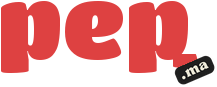
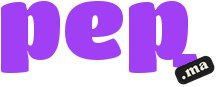
Tout le #DE4141 passe en #A13FF4 (#114)
Les lettres du logo changent de couleur, sans être redessinées. Le badge .ma reste noir. #C8242B était déjà #6515A0.

diff --git a/theme/partikulier/assets/css/style.css b/theme/partikulier/assets/css/style.css
@@ -5,7 +5,7 @@
 	barre de recherche centrale, nav uppercase, hero plein cadre,
 	cartes "produit" fond gris clair avec prix au-dessus du titre,
 	badge cognac en haut a droite, footer sombre multi-colonnes.
-	Palette : rouge #de4141, fond #f5f5f0, textes #161715/#3d403b.
+	Palette : rouge #A13FF4, fond #f5f5f0, textes #161715/#3d403b.
 	Zero framework. Mobile-first. Zero jQuery.
 	============================================================ */
 
@@ -51,11 +51,11 @@ html[dir="rtl"] [lang="ar"] {
 
 /* ---------- Variables (charte unique) ---------- */
 :root {
-		/* Charte unique : portail editorial rouge #de4141.
-			Les deux :root precedents (orange "Woo Shop" #f85525 et brun #de4141)
+		/* Charte unique : portail editorial rouge #A13FF4.
+			Les deux :root precedents (orange "Woo Shop" #f85525 et brun #A13FF4)
 			ont ete fusionnes ici : ils se contredisaient et le rendu dependait
 			de l'ordre de cascade au lieu d'une intention de design. */
-		--pk-primary: #de4141;
+		--pk-primary: #A13FF4;
 		--pk-primary-dark: #6515A0;
 		--pk-ink: #161715;
 		--pk-dark: #0f100e;
@@ -1207,7 +1207,7 @@ html[dir="rtl"] .pk-card-price {
 
 /* ============================================================
 	Alignement sur le preview React (mesures pixel des captures).
-	Accent #de4141, encre #161715, 2e ligne du H1 en italique
+	Accent #A13FF4, encre #161715, 2e ligne du H1 en italique
 	serif sable #e3c2a3, ligne de reassurance sous le moteur.
 	============================================================ */
 
@@ -4308,12 +4308,12 @@ html[dir="rtl"] .pk-single-price-note { direction: rtl; unicode-bidi: isolate; }
 .pk-chips { display: flex; flex-wrap: wrap; gap: .45rem; flex: 1; min-width: 0; }
 .pk-chip { position: relative; display: inline-flex; align-items: center; min-height: 44px; padding: .45rem .85rem; border: 1px solid #d9d6ce; border-radius: 10px; background: #fff; color: var(--pk-ink); font-size: .9rem; line-height: 1.35; cursor: pointer; }
 .pk-chip-input { position: absolute; opacity: 0; width: 1px; height: 1px; }
-.pk-chip:has(.pk-chip-input:checked) { background: #fff; border: 2px solid #de4141; color: var(--pk-primary-dark); font-weight: 600; }
+.pk-chip:has(.pk-chip-input:checked) { background: #fff; border: 2px solid #A13FF4; color: var(--pk-primary-dark); font-weight: 600; }
 .pk-chip:has(.pk-chip-input:focus-visible) { outline: 2px solid var(--pk-primary); outline-offset: 2px; }
 .pk-chip[hidden] { display: none; }
 .pk-amenity-hint { margin: .35rem 0 0; color: #6b675f; font-size: .82rem; }
 .pk-amenity-row { display: flex; flex-wrap: wrap; gap: .45rem; list-style: none; margin: 1rem 0 0; padding: 0; }
-.pk-amenity-row li { padding: .4rem .75rem; border: 2px solid #de4141; border-radius: 10px; background: #fff; color: var(--pk-primary-dark); font-size: .88rem; font-weight: 600; }
+.pk-amenity-row li { padding: .4rem .75rem; border: 2px solid #A13FF4; border-radius: 10px; background: #fff; color: var(--pk-primary-dark); font-size: .88rem; font-weight: 600; }
 @media (max-width: 560px) {
 	.pk-amenity { flex-direction: column; }
 }
@@ -4321,12 +4321,12 @@ html[dir="rtl"] .pk-single-price-note { direction: rtl; unicode-bidi: isolate; }
 #pk-furnished .pk-choice-grid:has(#pk-furnished-vide[hidden]) { grid-template-columns: 1fr; }
 
 
-/* Charte rouge #de4141. L'ancienne charte cognac reste sur le tag pre-release-2.10.16-6.20.85. */
+/* Charte rouge #A13FF4. L'ancienne charte cognac reste sur le tag pre-release-2.10.16-6.20.85. */
 body { background: #fff; }
 .pk-topbar { background: #6515A0; color: #fff; }
 .pk-topbar-promo, .pk-topbar-contact, .pk-topbar-contact a { color: #fff; background: transparent; }
 .pk-topbar-contact a:hover { color: #fff; }
-.pk-logo-text, .pk-logo-text:hover { color: #de4141; }
+.pk-logo-text, .pk-logo-text:hover { color: #A13FF4; }
 .pk-logo-tld {
 	display: inline-block;
 	margin-inline-start: .28rem;
@@ -4351,7 +4351,7 @@ body { background: #fff; }
 .pk-editorial-hero h1, .pk-editorial-hero h1 .pk-hero-accent { color: #161715; }
 .pk-editorial-hero h1 .pk-hero-accent, .pk-editorial-hero .pk-editorial-kicker { color: #6515A0; }
 .pk-editorial-hero__intro, .pk-editorial-hero .pk-editorial-search__hint, .pk-editorial-hero .pk-hero-trust, .pk-editorial-hero .pk-hero-trust li { color: #3d403b; }
-.pk-editorial-hero .pk-btn-light { background: #fff; color: #6515A0; border-color: #de4141; }
+.pk-editorial-hero .pk-btn-light { background: #fff; color: #6515A0; border-color: #A13FF4; }
 .pk-editorial-hero .pk-btn-light:hover { background: #6515A0; color: #fff; }
 .pk-btn-dark, .pk-btn-primary, .pk-btn-search, .pk-filter-apply { background: #6515A0; color: #fff; border-color: #6515A0; }
 .pk-btn-dark:hover, .pk-btn-primary:hover { background: #6515A0; border-color: #6515A0; color: #fff; }
@@ -4359,12 +4359,12 @@ body { background: #fff; }
 .pk-footer-title, .pk-site-footer h3 { color: #161715; }
 .pk-footer-about, .pk-site-footer a, .pk-site-footer li, .pk-site-footer p { color: #3d403b; }
 .pk-site-footer a:hover { color: #6515A0; }
-.pk-editorial-region-band { background: #de4141; color: #fff; }
+.pk-editorial-region-band { background: #A13FF4; color: #fff; }
 .pk-editorial-region-band h2, .pk-editorial-region-band a, .pk-editorial-region-band .pk-editorial-kicker { color: #fff !important; }
-.pk-editorial-section--rental, .pk-editorial-rental { background: #de4141; color: #fff; }
+.pk-editorial-section--rental, .pk-editorial-rental { background: #A13FF4; color: #fff; }
 .pk-editorial-section--rental .pk-editorial-kicker, .pk-editorial-section--rental .pk-editorial-rental h2, .pk-editorial-section--rental .pk-editorial-rental p { color: #fff; }
-.pk-editorial-rental .pk-btn, .pk-editorial-rental .pk-btn:hover { background: #fff; color: #de4141; border-color: #fff; }
-.pk-editorial-type { background: #de4141; color: #fff; border: 1px solid #de4141; }
+.pk-editorial-rental .pk-btn, .pk-editorial-rental .pk-btn:hover { background: #fff; color: #A13FF4; border-color: #fff; }
+.pk-editorial-type { background: #A13FF4; color: #fff; border: 1px solid #A13FF4; }
 .pk-editorial-type:hover { background: #6515A0; color: #fff; border-color: #6515A0; }
 .pk-editorial-type .pk-editorial-type__icon, .pk-editorial-type strong, .pk-editorial-type small, .pk-editorial-type:hover .pk-editorial-type__icon, .pk-editorial-type:hover strong, .pk-editorial-type:hover small { color: #fff; }
 .pk-card-badge.pk-badge-louer, .pk-card-badge.pk-badge-rent, .pk-card-badge.pk-badge-a-louer { background: #fff; color: #6515A0; }
@@ -4376,7 +4376,7 @@ a:hover { color: #6515A0; }
 .pk-editorial-feature { display: block; position: relative; min-height: 0 !important; height: auto; overflow: visible; background: transparent; color: #fff; }
 .pk-editorial-feature > img { position: relative !important; inset: auto !important; display: block; width: 100%; height: 440px; object-fit: cover; }
 .pk-editorial-feature__veil { display: none !important; background: none !important; }
-.pk-editorial-feature__content { position: relative !important; inset: auto !important; left: auto; right: auto; bottom: auto; z-index: 1; max-width: none; width: 100%; margin: -28px 0 0; padding: 18px 24px 20px; background: #de4141; color: #fff; }
+.pk-editorial-feature__content { position: relative !important; inset: auto !important; left: auto; right: auto; bottom: auto; z-index: 1; max-width: none; width: 100%; margin: -28px 0 0; padding: 18px 24px 20px; background: #A13FF4; color: #fff; }
 .pk-editorial-feature__kicker, .pk-editorial-feature__content, .pk-editorial-feature__content strong, .pk-editorial-feature__content small, .pk-editorial-feature:hover, .pk-editorial-feature:hover .pk-editorial-feature__kicker, .pk-editorial-feature:hover .pk-editorial-feature__content, .pk-editorial-feature:hover .pk-editorial-feature__content strong, .pk-editorial-feature:hover .pk-editorial-feature__content small { color: #fff !important; }
 .pk-editorial-feature__price { background: transparent; color: #fff; padding: 0; margin-top: .55rem; font-size: 1.15rem; }
 @media (max-width: 640px) {
@@ -4384,7 +4384,7 @@ a:hover { color: #6515A0; }
 	.pk-editorial-feature__content { margin-top: -18px; }
 }
 
-/* Recherche : onglets vente / location au-dessus, panneau filtres. Charte #de4141. */
+/* Recherche : onglets vente / location au-dessus, panneau filtres. Charte #A13FF4. */
 form.pk-search.pk-find {
 	display: block !important;
 	grid-template-columns: none !important;
@@ -4433,8 +4433,8 @@ form.pk-search.pk-find {
 }
 .pk-find-tab-input:checked + .pk-find-tab,
 .pk-find-tab-input:focus-visible + .pk-find-tab {
-	background: #de4141;
-	border-color: #de4141;
+	background: #A13FF4;
+	border-color: #A13FF4;
 	color: #fff;
 }
 .pk-find-tab-input:focus-visible + .pk-find-tab { outline: 2px solid #161715; outline-offset: 2px; }
@@ -4534,12 +4534,12 @@ html[dir="rtl"] .pk-find-field select { background-position: left .1rem center; 
 	border-inline-end: 1px solid #e6e5df;
 }
 .pk-find-open:checked ~ .pk-find-card .pk-find-filter,
-.pk-find-open:focus-visible ~ .pk-find-card .pk-find-filter { color: #de4141; }
+.pk-find-open:focus-visible ~ .pk-find-card .pk-find-filter { color: #A13FF4; }
 .pk-find-need {
 	margin: 0;
 	padding: .85rem 1rem;
 	background: #fff;
-	border: 1px solid #de4141;
+	border: 1px solid #A13FF4;
 	border-top: 0;
 	color: #161715;
 	font-weight: 700;
@@ -4547,7 +4547,7 @@ html[dir="rtl"] .pk-find-field select { background-position: left .1rem center; 
 }
 .pk-find-need[hidden] { display: none !important; }
 .pk-find.is-need-tx .pk-find-tabs,
-.pk-find.is-need-type .pk-find-typefield { outline: 2px solid #de4141; outline-offset: 2px; }
+.pk-find.is-need-type .pk-find-typefield { outline: 2px solid #A13FF4; outline-offset: 2px; }
 .pk-find-pills[hidden],
 .pk-find-chip[hidden],
 .pk-find-rooms[hidden],
@@ -4605,7 +4605,7 @@ html[dir="rtl"] .pk-find-field select { background-position: left .1rem center; 
 }
 .pk-find-range-name { color: #161715; font-size: .95rem; font-weight: 800; }
 .pk-find-readout {
-	color: #de4141;
+	color: #A13FF4;
 	font-weight: 800;
 	font-size: .92rem;
 	font-variant-numeric: tabular-nums;
@@ -4620,7 +4620,7 @@ html[dir="rtl"] .pk-find-field select { background-position: left .1rem center; 
 	height: 4px;
 }
 .pk-find-track { left: 0; right: 0; background: #e6e5df; }
-.pk-find-fill { background: #de4141; }
+.pk-find-fill { background: #A13FF4; }
 .pk-find-slider input[type="range"] {
 	position: absolute;
 	left: 0;
@@ -4644,7 +4644,7 @@ html[dir="rtl"] .pk-find-field select { background-position: left .1rem center; 
 	margin-top: -7px;
 	border-radius: 50%;
 	background: #fff;
-	border: 2px solid #de4141;
+	border: 2px solid #A13FF4;
 	cursor: pointer;
 	box-shadow: 0 1px 3px rgba(22, 23, 21, .18);
 }
@@ -4655,7 +4655,7 @@ html[dir="rtl"] .pk-find-field select { background-position: left .1rem center; 
 	height: 18px;
 	border-radius: 50%;
 	background: #fff;
-	border: 2px solid #de4141;
+	border: 2px solid #A13FF4;
 	cursor: pointer;
 }
 
@@ -4704,8 +4704,8 @@ html[dir="rtl"] .pk-find-field select { background-position: left .1rem center; 
 	clip: rect(0 0 0 0);
 }
 .pk-find-pill:has(input:checked), .pk-find-chip:has(input:checked) {
-	background: #de4141;
-	border-color: #de4141;
+	background: #A13FF4;
+	border-color: #A13FF4;
 	color: #fff;
 }
 .pk-find-pill:has(input:focus-visible), .pk-find-chip:has(input:focus-visible) {
@@ -4730,7 +4730,7 @@ html[dir="rtl"] .pk-find-field select { background-position: left .1rem center; 
 	text-decoration: underline;
 	text-underline-offset: .16em;
 }
-.pk-find-clear:hover { color: #de4141; }
+.pk-find-clear:hover { color: #A13FF4; }
 .pk-find-results { min-height: 46px; padding: .75rem 1.3rem; font-size: 1rem; }
 
 @media (max-width: 720px) {
@@ -4912,7 +4912,7 @@ html[dir="rtl"] body.home .pk-editorial-hero__inner {
 	background: #faf7f5;
 	color: #161715;
 	font-weight: 800;
-	border-inline-start-color: #de4141;
+	border-inline-start-color: #A13FF4;
 }
 @media (max-width: 1100px) {
 	.pk-editorial-hero:has(.pk-find.is-type-open),
@@ -4989,10 +4989,10 @@ body:has(.pk-find-open:checked) {
 	min-height: 44px;
 	min-width: 7.5rem;
 	padding: 0 1rem;
-	border: 1px solid #de4141;
+	border: 1px solid #A13FF4;
 	border-radius: 0;
 	background: #fff;
-	color: #de4141;
+	color: #A13FF4;
 	font: inherit;
 	font-weight: 800;
 	cursor: pointer;
@@ -5116,9 +5116,9 @@ body:has(.pk-find.is-type-open) .pk-scroll-actions { visibility: hidden; }
 
 .pk-journal { font-family: Georgia, "Iowan Old Style", Palatino, serif; }
 .pk-journal-band { border-bottom: 1px solid #111; }
-.pk-journal-word, .pk-journal-word a { margin: 0 auto; width: min(1120px, calc(100% - 32px)); display: block; padding: 12px 0; font-family: system-ui, sans-serif; font-size: 12px; letter-spacing: .16em; text-transform: uppercase; color: #de4141; font-weight: 700; }
+.pk-journal-word, .pk-journal-word a { margin: 0 auto; width: min(1120px, calc(100% - 32px)); display: block; padding: 12px 0; font-family: system-ui, sans-serif; font-size: 12px; letter-spacing: .16em; text-transform: uppercase; color: #A13FF4; font-weight: 700; }
 .pk-journal-note { width: min(1120px, calc(100% - 32px)); margin: -8px auto 0; padding-bottom: 12px; font-family: system-ui, sans-serif; font-size: 13px; color: #5c5c5c; }
-.pk-journal .kicker { margin: 0 0 8px; color: #de4141; font-family: system-ui, sans-serif; font-size: 12px; font-weight: 700; letter-spacing: .12em; text-transform: uppercase; }
+.pk-journal .kicker { margin: 0 0 8px; color: #A13FF4; font-family: system-ui, sans-serif; font-size: 12px; font-weight: 700; letter-spacing: .12em; text-transform: uppercase; }
 .pk-journal-home { display: grid; grid-template-columns: 1.7fr .9fr; gap: 36px; padding: 28px 0 48px; }
 .pk-journal-lead h1, .pk-journal__article h1 { margin: 0 0 12px; font-size: clamp(2rem, 4vw, 3.15rem); line-height: 1.02; letter-spacing: -.03em; }
 .pk-journal .deck, .pk-journal-rail p { font-size: 1.05rem; line-height: 1.4; }
@@ -5138,9 +5138,9 @@ body:has(.pk-find.is-type-open) .pk-scroll-actions { visibility: hidden; }
 .pk-journal-mast .pk-journal-word { width: auto; margin: 0; padding: 0; }
 .pk-journal-date { font-family: system-ui, sans-serif; font-size: 13px; color: #5c5c5c; }
 .pk-journal-nav { display: flex; gap: 22px; flex-wrap: wrap; padding: 12px 0; font-family: system-ui, sans-serif; font-size: 14px; }
-.pk-journal-nav a[aria-current="page"] { color: #de4141; }
+.pk-journal-nav a[aria-current="page"] { color: #A13FF4; }
 .pk-journal-ticker { border-bottom: 1px solid #e6e6e6; font-family: system-ui, sans-serif; font-size: 13px; padding: 8px 0; color: #5c5c5c; }
-.pk-journal-ticker strong { color: #de4141; font-weight: 700; margin-right: 8px; }
+.pk-journal-ticker strong { color: #A13FF4; font-weight: 700; margin-right: 8px; }
 .pk-journal-lead figure { margin: 0 0 16px; }
 .pk-journal-lead .deck { margin: 0 0 12px; font-size: 1.2rem; line-height: 1.4; }
 .pk-journal-row { display: grid; grid-template-columns: 1fr 1fr; gap: 28px; padding: 8px 0 48px; border-top: 1px solid #111; }

diff --git a/theme/partikulier/style.css b/theme/partikulier/style.css
@@ -3,7 +3,7 @@ Theme Name: Partikulier CDC v1.8 — final30
 Theme URI: https://partikulier.com/
 Author: Partikulier Team
 Author URI: https://partikulier.com/
-Description: Theme de portail immobilier pour Partikulier.com. Annonces de biens immobiliers gratuites deposees par les particuliers. Zero jQuery sur les pages editoriales (exception assumee sur les parcours proprietaires : galerie, filtres, selection, upload), cache de page integre, conversion AVIF automatique des images, schema.org JSON-LD complet (RealEstateListing, Place, Offer, GeoCoordinates), sitemap XML virtuel, permaliens geographiques (ville, quartier, region, departement) et optimisation PageSpeed cible 100/100. Concu pour ESTATIK, avec compatibilite optionnelle Polylang gratuit pour les variantes SEO FR/AR/EN. Formulaire structure avec chambres, salons, salles de bains, terrasse, vue et ensoleillement, metadonnees Estatik compatibles et design rouge #de4141. Correctif lieux r3 (depot d'annonce, 26/09/2026).
+Description: Theme de portail immobilier pour Partikulier.com. Annonces de biens immobiliers gratuites deposees par les particuliers. Zero jQuery sur les pages editoriales (exception assumee sur les parcours proprietaires : galerie, filtres, selection, upload), cache de page integre, conversion AVIF automatique des images, schema.org JSON-LD complet (RealEstateListing, Place, Offer, GeoCoordinates), sitemap XML virtuel, permaliens geographiques (ville, quartier, region, departement) et optimisation PageSpeed cible 100/100. Concu pour ESTATIK, avec compatibilite optionnelle Polylang gratuit pour les variantes SEO FR/AR/EN. Formulaire structure avec chambres, salons, salles de bains, terrasse, vue et ensoleillement, metadonnees Estatik compatibles et design rouge #A13FF4. Correctif lieux r3 (depot d'annonce, 26/09/2026).
 Version: 6.20.11
 Requires at least: 6.2
 Requires PHP: 8.1

diff --git a/theme/partikulier/inc/class-leads-admin.php b/theme/partikulier/inc/class-leads-admin.php
@@ -400,7 +400,7 @@ class Partikulier_Leads_Admin {
 
 	public static function admin_styles() {
 		if ( empty( $_GET['page'] ) || self::MENU_SLUG !== $_GET['page'] ) { return; }
-					echo '<style>.pk-leads-admin{max-width:1480px}.pk-leads-intro{max-width:850px;color:#50575e}.pk-leads-kpis{display:grid;grid-template-columns:repeat(4,minmax(140px,1fr));gap:16px;margin:22px 0}.pk-leads-kpis div{background:#fff;border:1px solid #dcdcde;border-left:4px solid #de4141;padding:18px}.pk-leads-kpis strong,.pk-leads-kpis span{display:block}.pk-leads-kpis strong{font-size:28px;line-height:1.1}.pk-leads-kpis span{margin-top:6px;color:#50575e}.pk-leads-filters{display:flex;align-items:end;gap:12px;flex-wrap:wrap;background:#fff;padding:16px;border:1px solid #dcdcde;margin:0 0 16px}.pk-leads-filters label{display:grid;gap:4px}.pk-leads-filters span{font-size:12px;font-weight:600}.pk-leads-search{min-width:240px}.pk-leads-table-wrap{overflow:auto}.pk-leads-table{min-width:980px}.pk-leads-table td{vertical-align:top;padding:14px}.pk-leads-table small{display:block;margin-top:5px;color:#646970}.pk-leads-table select{max-width:100%}.pk-leads-table textarea{display:block;width:100%;margin:7px 0;resize:vertical}.pk-leads-criteria{margin:7px 0 0;color:#50575e}.pk-leads-consent{display:inline-block;padding:4px 8px;border-radius:99px;font-weight:600;font-size:12px}.pk-leads-consent.is-granted{background:#e7f5e8;color:#176b2c}.pk-leads-consent.is-missing{background:#fff2d8;color:#8a5000}.pk-leads-consent.is-opted-out{background:#fce8e6;color:#a12622}.pk-leads-admin .button.button-primary{background:#de4141;border-color:#de4141;color:#fff;box-shadow:none}.pk-leads-admin .button.button-primary:hover,.pk-leads-admin .button.button-primary:focus{background:#6515A0;border-color:#6515A0;color:#fff}.pk-leads-policy{margin:20px 0}@media(max-width:782px){.pk-leads-kpis{grid-template-columns:repeat(2,minmax(120px,1fr))}.pk-leads-filters{align-items:stretch}.pk-leads-filters label,.pk-leads-search{width:100%}}</style>';
+					echo '<style>.pk-leads-admin{max-width:1480px}.pk-leads-intro{max-width:850px;color:#50575e}.pk-leads-kpis{display:grid;grid-template-columns:repeat(4,minmax(140px,1fr));gap:16px;margin:22px 0}.pk-leads-kpis div{background:#fff;border:1px solid #dcdcde;border-left:4px solid #A13FF4;padding:18px}.pk-leads-kpis strong,.pk-leads-kpis span{display:block}.pk-leads-kpis strong{font-size:28px;line-height:1.1}.pk-leads-kpis span{margin-top:6px;color:#50575e}.pk-leads-filters{display:flex;align-items:end;gap:12px;flex-wrap:wrap;background:#fff;padding:16px;border:1px solid #dcdcde;margin:0 0 16px}.pk-leads-filters label{display:grid;gap:4px}.pk-leads-filters span{font-size:12px;font-weight:600}.pk-leads-search{min-width:240px}.pk-leads-table-wrap{overflow:auto}.pk-leads-table{min-width:980px}.pk-leads-table td{vertical-align:top;padding:14px}.pk-leads-table small{display:block;margin-top:5px;color:#646970}.pk-leads-table select{max-width:100%}.pk-leads-table textarea{display:block;width:100%;margin:7px 0;resize:vertical}.pk-leads-criteria{margin:7px 0 0;color:#50575e}.pk-leads-consent{display:inline-block;padding:4px 8px;border-radius:99px;font-weight:600;font-size:12px}.pk-leads-consent.is-granted{background:#e7f5e8;color:#176b2c}.pk-leads-consent.is-missing{background:#fff2d8;color:#8a5000}.pk-leads-consent.is-opted-out{background:#fce8e6;color:#a12622}.pk-leads-admin .button.button-primary{background:#A13FF4;border-color:#A13FF4;color:#fff;box-shadow:none}.pk-leads-admin .button.button-primary:hover,.pk-leads-admin .button.button-primary:focus{background:#6515A0;border-color:#6515A0;color:#fff}.pk-leads-policy{margin:20px 0}@media(max-width:782px){.pk-leads-kpis{grid-template-columns:repeat(2,minmax(120px,1fr))}.pk-leads-filters{align-items:stretch}.pk-leads-filters label,.pk-leads-search{width:100%}}</style>';
 	}
 }
 

diff --git a/theme/partikulier/inc/class-visit-counter.php b/theme/partikulier/inc/class-visit-counter.php
@@ -95,10 +95,10 @@ class Partikulier_Visit_Counter {
 			.pk-cookie-bar a { color: #111; text-decoration: underline; }
 			.pk-cookie-actions { display: flex; gap: 8px; flex: 0 0 auto; }
 			.pk-cookie-actions button {
-				min-width: 120px; height: 40px; padding: 0 16px; border: 1px solid #de4141;
-				background: #fff; color: #de4141; font: inherit; font-weight: 650; cursor: pointer;
+				min-width: 120px; height: 40px; padding: 0 16px; border: 1px solid #A13FF4;
+				background: #fff; color: #A13FF4; font: inherit; font-weight: 650; cursor: pointer;
 			}
-			.pk-cookie-actions button[data-yes] { background: #de4141; color: #fff; }
+			.pk-cookie-actions button[data-yes] { background: #A13FF4; color: #fff; }
 			body.pk-cookie-open { padding-bottom: 84px; }
 			@media (max-width: 640px) {
 				.pk-cookie-bar { flex-direction: column; align-items: stretch; }
